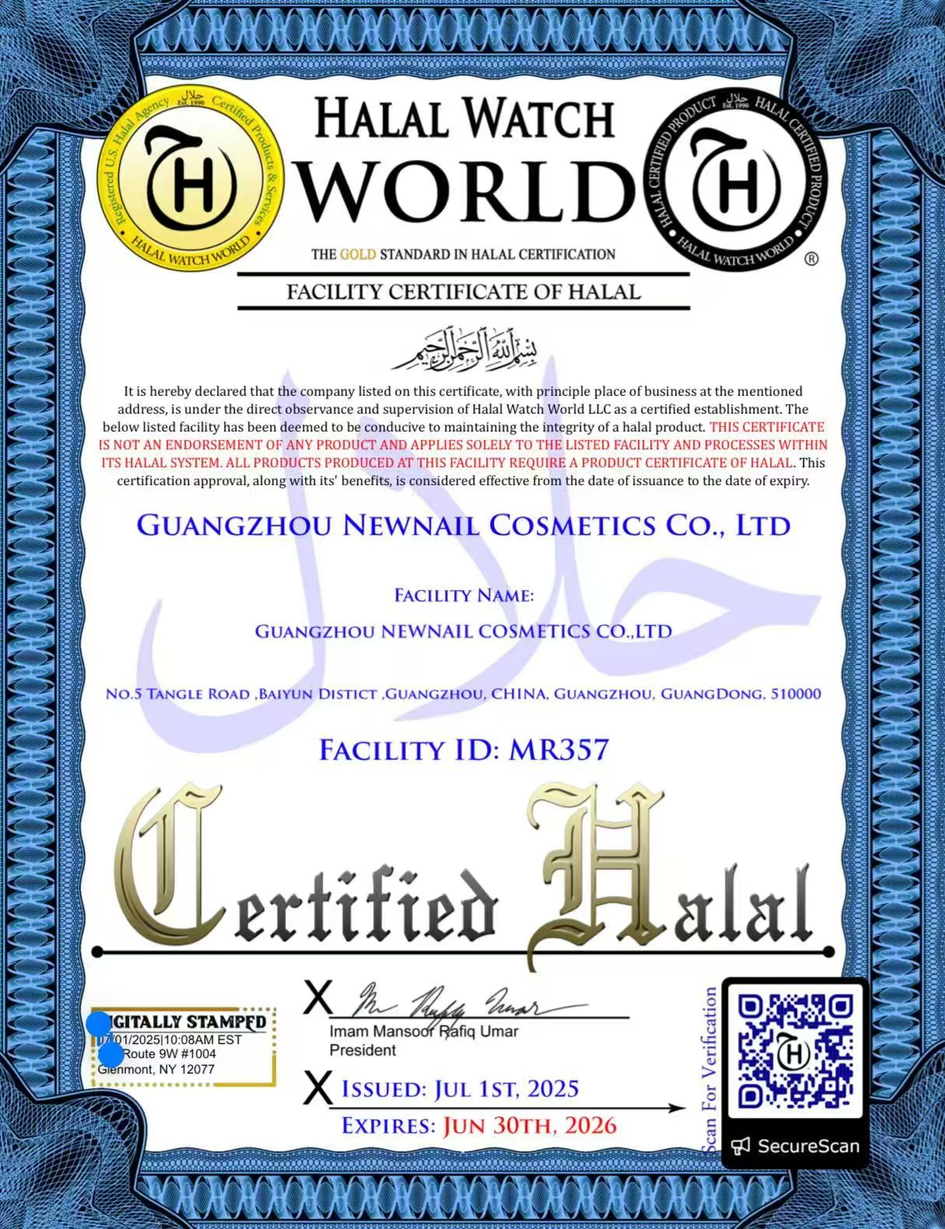
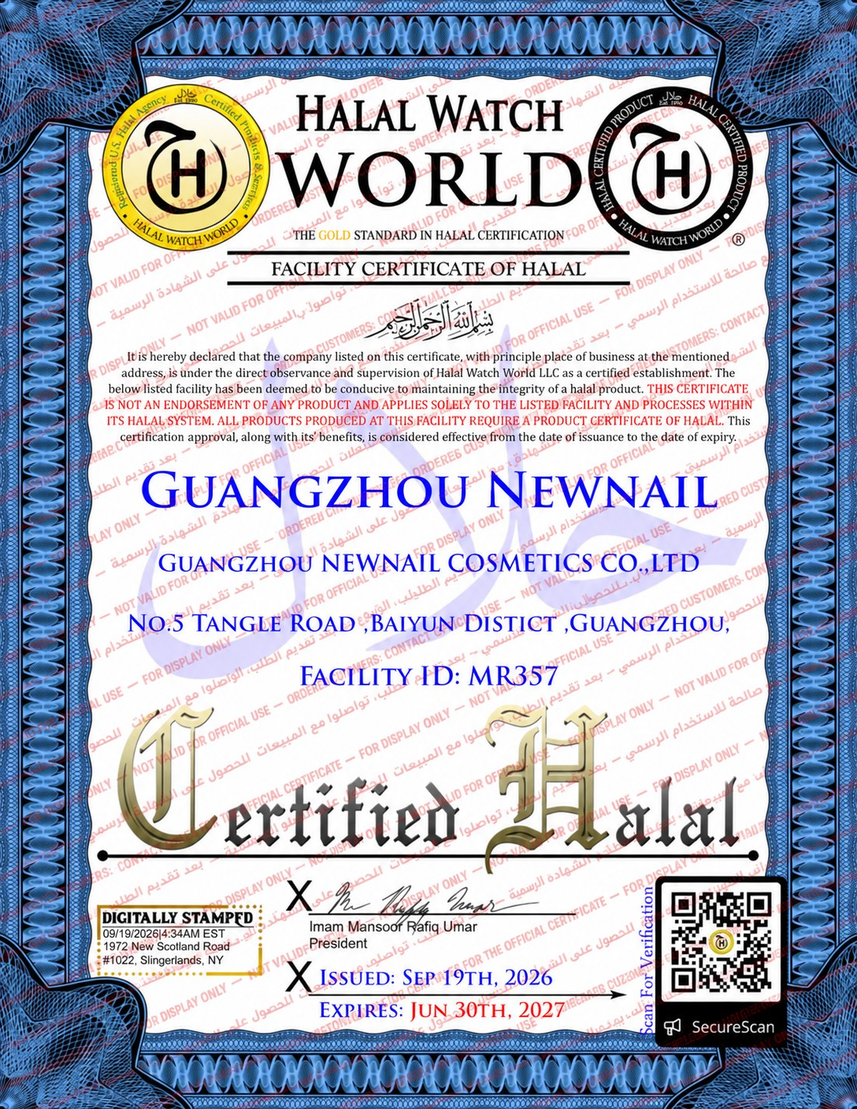
Update Halal certificate display and links

diff --git a/products/nail-polish-system/index.html b/products/nail-polish-system/index.html
@@ -1,1 +1,1 @@
-<!doctype html><html lang="en"><head><meta charset="utf-8"><meta name="viewport" content="width=device-width, initial-scale=1"><meta name="robots" content="index,follow,max-image-preview:large"><title>Halal Nail Polish | GZ New Nail</title><link rel="stylesheet" href="/assets/core-collections/style.css"><meta name="description" content="Develop your halal nail polish collection with GZ New Nail. Custom colors, bottles and packaging for brands, distributors and salon businesses."><link rel="canonical" href="https://gznewnail.com/products/nail-polish-system/"><script defer src="/assets/analytics.js?v=20260914"></script></head><body><header><div class="wrap nav"><a class="brand" href="/">GZ NEW NAIL<small>PRIVATE LABEL · OEM / ODM</small></a><nav class="links" aria-label="Product categories"><a aria-current="page" href="/products/nail-polish-system/">Halal Nail Polish</a><a href="/products/builder-extension-gel/">Builder Gel</a><a href="/products/acrylic-dipping-system/">Acrylic Powder</a></nav></div></header><main class="wrap"><div class="crumb"><a href="/#core-categories">Home / Collections</a> / Halal Nail Polish</div><section class="hero"><div><div class="eyebrow">YOUR COLORS. YOUR BRAND.</div><h1>Private Label<br>Halal Nail Polish</h1><p class="intro">Develop your halal nail polish collection with GZ New Nail. Custom colors, bottles and packaging for brands, distributors and salon businesses.</p><p class="badge">20 years of nail product export experience</p><div class="actions"><a class="button" href="#inquiry">Request Samples ↗</a><a class="button secondary" href="#customize">Explore Customization</a></div></div><figure class="visual" style="margin:0"><img src="/assets/core-collections/halal-nail-polish-product.png" alt="GZ New Nail Halal Nail Polish product reference"><figcaption class="caption"><span>PRODUCT REFERENCE</span><span>Final specifications by sample approval</span></figcaption></figure></section><section class="facts" aria-label="Order essentials"><div><strong>100 bottles</strong><span>Mixed colors · from 5 bottles per shade</span></div><div><strong>Free samples</strong><span>Customer pays shipping</span></div><div><strong>3–5 days</strong><span>Typical sample dispatch</span></div><div><strong>7–14 days</strong><span>Typical bulk lead time · order dependent</span></div></section><section class="section" id="customize"><div class="sectionhead"><div><div class="eyebrow">MADE FOR YOUR COLLECTION</div><h2>What can you customize?</h2></div><p>Define the details that matter to your customers. Confirm your final specification through sample approval.</p></div><table aria-label="Customization options"><tbody><tr><th scope="row">Formula</th><td>Discuss water-based options, drying performance, coverage, gloss and removal preferences. Confirm the final specification through sample approval.</td></tr><tr><th scope="row">Colors</th><td>Choose available shades or submit a physical color reference for development.</td></tr><tr><th scope="row">Bottles & brushes</th><td>Discuss bottle size, shape, cap and brush options suitable for your formula.</td></tr><tr><th scope="row">Logo</th><td>Customize labels and discuss printing options. Review certification-logo permissions before artwork approval.</td></tr><tr><th scope="row">Packaging</th><td>Individual boxes, coordinated color sets, shade cards and export cartons.</td></tr></tbody></table><p class="note">Custom development, packaging options and minimum quantities are confirmed for each project.</p></section><section class="section"><div class="eyebrow">EXPLORE THE COLLECTION</div><h2>Product details & specifications</h2><ul><li><a href="https://gznewnail.com/products/nail-polish-system/high-performance-regular-nail-lacquer.html">View Product Details</a></li><li><a href="https://gznewnail.com/products/nail-polish-system/quick-dry-vegan-water-based-nail-polish.html">View Product Details</a></li><li><a href="https://gznewnail.com/products/nail-polish-system/water-based-breathable-nail-polish.html">View Product Details</a></li></ul></section><section class="section reviewgrid"><div><div class="eyebrow">BEFORE YOU APPROVE</div><h2>Start with the right sample.</h2><ul class="checks"><li>Coverage & application layers</li><li>Drying, wear & removal</li><li>Bottle closure & brush performance</li></ul><a href="#inquiry">Discuss your sample requirements →</a></div><aside class="proof"><div class="eyebrow">BUYER NOTES</div><h3>Halal documentation, clearly explained</h3><p>Customers preparing to place an order can contact us to request our latest halal certificate and confirm its coverage for their selected products and destination market. Certification logos on private label packaging require review before artwork approval. For water-permeability requirements, request the relevant evidence and application conditions for the selected formula.</p></aside></section><section class="section"><div class="sectionhead"><div><div class="eyebrow">PLAN YOUR ORDER</div><h2>Your sourcing questions, answered.</h2></div></div><div class="faq"><details><summary>What can I customize?</summary><p>Discuss formula development, shades, containers, logo application and packaging. Options depend on the product and are confirmed through technical review, quotation and sample approval.</p></details><details open><summary>What is your minimum order quantity?</summary><p>For in-stock bottled products: 100 bottles in mixed colors, with as few as 5 bottles per shade. Custom formulas, colors and packaging may have different minimums. Send your specification for confirmation.</p></details><details><summary>Are samples free, and when can they ship?</summary><p>Samples are generally free; the customer pays shipping costs. Samples can generally be dispatched within 3–5 days, depending on availability and specification. Custom-developed samples may require a separately agreed schedule.</p></details><details><summary>What is the bulk order lead time?</summary><p>Bulk orders generally take 7–14 days. The actual schedule depends on quantity, product selection and packaging. We confirm the schedule for each order, including required sample and artwork approvals. Shipping transit time is additional.</p></details><details><summary>Which documents can you provide?</summary><p>We can provide product-specific SDS/MSDS and applicable SGS test reports, and discuss documentation support for EU CPNP notification and US FDA/MoCRA requirements. Customers preparing to order halal nail polish can request the latest halal certificate and review its scope. Availability and relevance are confirmed for the selected product, formula and market.</p></details><details><summary>How do I start my order?</summary><p>Send your destination country, sales channel, product, shades, quantity, container size and packaging requirements. We will recommend samples and confirm the quotation. Before production, agree the specification, approved samples, artwork and schedule. For EU orders, share your Responsible Person’s documentation and labeling requirements; for US orders, share your applicable labeling and MoCRA requirements.</p></details></div></section><section class="section inquiry" id="inquiry"><div><div class="eyebrow">LET’S BUILD YOUR COLLECTION</div><h2>Tell us what you have in mind.</h2><p>Share your destination country, shades, bottle size, quantity and certification requirements. We will help you select samples and review documentation before order approval.</p><ol class="steps"><li>Share your brief and target market.</li><li>Review samples, documents and quotation.</li><li>Approve specifications and packaging.</li></ol><p class="note">20 years of experience exporting nail products.</p></div><form id="quote"><div class="fields"><label>Name<input required name="name" autocomplete="name" placeholder="Your name"></label><label>Business email<input required type="email" name="email" autocomplete="email" placeholder="you@company.com"></label><label>Product category<input name="category" value="Halal Nail Polish" readonly></label><label>Destination country<input required name="country" placeholder="e.g. Germany or United States"></label><label class="wide">Quantity & packaging<input name="quantity" placeholder="Quantity, shades and bottle / jar size"></label><label class="wide">Project details<textarea name="details" placeholder="Formula, logo, sample and documentation requirements"></textarea></label><div class="wide"><button class="button" type="submit">Send Request by Email ↗</button><button class="button secondary" type="submit" value="whatsapp">Send via WhatsApp</button><p class="note">Your email app or WhatsApp opens with your request. You review and send it there.</p><p class="status" id="status" role="status"></p></div></div></form></section></main><footer class="wrap">GZ New Nail · OEM/ODM Nail Product Factory · Guangzhou, China</footer><script>document.getElementById('quote').addEventListener('submit',function(e){e.preventDefault();const f=new FormData(this);const text=Array.from(f.entries()).map(([k,v])=>k+': '+v).join('\n');const wa=e.submitter&&e.submitter.value==='whatsapp';const url=wa?'https://wa.me/8618686858175?text='+encodeURIComponent(text):'mailto:newnail001@gznewnail.com?subject='+encodeURIComponent(f.get('category')+' sample inquiry')+'&body='+encodeURIComponent(text);document.getElementById('status').textContent='Continue in your '+(wa?'WhatsApp':'email app')+' to review and send your request.';window.location.href=url;});</script></body></html>
+<!doctype html><html lang="en"><head><meta charset="utf-8"><meta name="viewport" content="width=device-width, initial-scale=1"><meta name="robots" content="index,follow,max-image-preview:large"><title>Halal Nail Polish | GZ New Nail</title><link rel="stylesheet" href="/assets/core-collections/style.css"><meta name="description" content="Develop your halal nail polish collection with GZ New Nail. Custom colors, bottles and packaging for brands, distributors and salon businesses."><link rel="canonical" href="https://gznewnail.com/products/nail-polish-system/"><script defer src="/assets/analytics.js?v=20260914"></script></head><body><header><div class="wrap nav"><a class="brand" href="/">GZ NEW NAIL<small>PRIVATE LABEL · OEM / ODM</small></a><nav class="links" aria-label="Product categories"><a aria-current="page" href="/products/nail-polish-system/">Halal Nail Polish</a><a href="/products/builder-extension-gel/">Builder Gel</a><a href="/products/acrylic-dipping-system/">Acrylic Powder</a></nav></div></header><main class="wrap"><div class="crumb"><a href="/#core-categories">Home / Collections</a> / Halal Nail Polish</div><section class="hero"><div><div class="eyebrow">YOUR COLORS. YOUR BRAND.</div><h1>Private Label<br>Halal Nail Polish</h1><p class="intro">Develop your halal nail polish collection with GZ New Nail. Custom colors, bottles and packaging for brands, distributors and salon businesses.</p><p class="badge">20 years of nail product export experience</p><div class="actions"><a class="button" href="#inquiry">Request Samples ↗</a><a class="button secondary" href="#customize">Explore Customization</a></div></div><figure class="visual" style="margin:0"><img src="/assets/core-collections/halal-nail-polish-product.png" alt="GZ New Nail Halal Nail Polish product reference"><figcaption class="caption"><span>PRODUCT REFERENCE</span><span>Final specifications by sample approval</span></figcaption></figure></section><section class="facts" aria-label="Order essentials"><div><strong>100 bottles</strong><span>Mixed colors · from 5 bottles per shade</span></div><div><strong>Free samples</strong><span>Customer pays shipping</span></div><div><strong>3–5 days</strong><span>Typical sample dispatch</span></div><div><strong>7–14 days</strong><span>Typical bulk lead time · order dependent</span></div></section><section class="section" id="customize"><div class="sectionhead"><div><div class="eyebrow">MADE FOR YOUR COLLECTION</div><h2>What can you customize?</h2></div><p>Define the details that matter to your customers. Confirm your final specification through sample approval.</p></div><table aria-label="Customization options"><tbody><tr><th scope="row">Formula</th><td>Discuss water-based options, drying performance, coverage, gloss and removal preferences. Confirm the final specification through sample approval.</td></tr><tr><th scope="row">Colors</th><td>Choose available shades or submit a physical color reference for development.</td></tr><tr><th scope="row">Bottles & brushes</th><td>Discuss bottle size, shape, cap and brush options suitable for your formula.</td></tr><tr><th scope="row">Logo</th><td>Customize labels and discuss printing options. Review certification-logo permissions before artwork approval.</td></tr><tr><th scope="row">Packaging</th><td>Individual boxes, coordinated color sets, shade cards and export cartons.</td></tr></tbody></table><p class="note">Custom development, packaging options and minimum quantities are confirmed for each project.</p></section><section class="section"><div class="eyebrow">EXPLORE THE COLLECTION</div><h2>Product details & specifications</h2><ul><li><a href="https://gznewnail.com/products/nail-polish-system/high-performance-regular-nail-lacquer.html">View Product Details</a></li><li><a href="https://gznewnail.com/products/nail-polish-system/quick-dry-vegan-water-based-nail-polish.html">View Product Details</a></li><li><a href="https://gznewnail.com/products/nail-polish-system/water-based-breathable-nail-polish.html">View Product Details</a></li></ul></section><section class="section reviewgrid"><div><div class="eyebrow">BEFORE YOU APPROVE</div><h2>Start with the right sample.</h2><ul class="checks"><li>Coverage & application layers</li><li>Drying, wear & removal</li><li>Bottle closure & brush performance</li></ul><a href="#inquiry">Discuss your sample requirements →</a></div><aside class="proof"><div class="eyebrow">BUYER NOTES</div><h3>Halal documentation, clearly explained</h3><p>Customers preparing to place an order can contact us to request our latest halal certificate and confirm its coverage for their selected products and destination market. Certification logos on private label packaging require review before artwork approval. For water-permeability requirements, request the relevant evidence and application conditions for the selected formula.</p><p><a href="../../guides/nail-polish-documents.html#halal">View the watermarked Halal facility certificate display copy →</a></p></aside></section><section class="section"><div class="sectionhead"><div><div class="eyebrow">PLAN YOUR ORDER</div><h2>Your sourcing questions, answered.</h2></div></div><div class="faq"><details><summary>What can I customize?</summary><p>Discuss formula development, shades, containers, logo application and packaging. Options depend on the product and are confirmed through technical review, quotation and sample approval.</p></details><details open><summary>What is your minimum order quantity?</summary><p>For in-stock bottled products: 100 bottles in mixed colors, with as few as 5 bottles per shade. Custom formulas, colors and packaging may have different minimums. Send your specification for confirmation.</p></details><details><summary>Are samples free, and when can they ship?</summary><p>Samples are generally free; the customer pays shipping costs. Samples can generally be dispatched within 3–5 days, depending on availability and specification. Custom-developed samples may require a separately agreed schedule.</p></details><details><summary>What is the bulk order lead time?</summary><p>Bulk orders generally take 7–14 days. The actual schedule depends on quantity, product selection and packaging. We confirm the schedule for each order, including required sample and artwork approvals. Shipping transit time is additional.</p></details><details><summary>Which documents can you provide?</summary><p>We can provide product-specific SDS/MSDS and applicable SGS test reports, and discuss documentation support for EU CPNP notification and US FDA/MoCRA requirements. Customers preparing to order halal nail polish can request the latest halal certificate and review its scope. Availability and relevance are confirmed for the selected product, formula and market.</p></details><details><summary>How do I start my order?</summary><p>Send your destination country, sales channel, product, shades, quantity, container size and packaging requirements. We will recommend samples and confirm the quotation. Before production, agree the specification, approved samples, artwork and schedule. For EU orders, share your Responsible Person’s documentation and labeling requirements; for US orders, share your applicable labeling and MoCRA requirements.</p></details></div></section><section class="section inquiry" id="inquiry"><div><div class="eyebrow">LET’S BUILD YOUR COLLECTION</div><h2>Tell us what you have in mind.</h2><p>Share your destination country, shades, bottle size, quantity and certification requirements. We will help you select samples and review documentation before order approval.</p><ol class="steps"><li>Share your brief and target market.</li><li>Review samples, documents and quotation.</li><li>Approve specifications and packaging.</li></ol><p class="note">20 years of experience exporting nail products.</p></div><form id="quote"><div class="fields"><label>Name<input required name="name" autocomplete="name" placeholder="Your name"></label><label>Business email<input required type="email" name="email" autocomplete="email" placeholder="you@company.com"></label><label>Product category<input name="category" value="Halal Nail Polish" readonly></label><label>Destination country<input required name="country" placeholder="e.g. Germany or United States"></label><label class="wide">Quantity & packaging<input name="quantity" placeholder="Quantity, shades and bottle / jar size"></label><label class="wide">Project details<textarea name="details" placeholder="Formula, logo, sample and documentation requirements"></textarea></label><div class="wide"><button class="button" type="submit">Send Request by Email ↗</button><button class="button secondary" type="submit" value="whatsapp">Send via WhatsApp</button><p class="note">Your email app or WhatsApp opens with your request. You review and send it there.</p><p class="status" id="status" role="status"></p></div></div></form></section></main><footer class="wrap">GZ New Nail · OEM/ODM Nail Product Factory · Guangzhou, China</footer><script>document.getElementById('quote').addEventListener('submit',function(e){e.preventDefault();const f=new FormData(this);const text=Array.from(f.entries()).map(([k,v])=>k+': '+v).join('\n');const wa=e.submitter&&e.submitter.value==='whatsapp';const url=wa?'https://wa.me/8618686858175?text='+encodeURIComponent(text):'mailto:newnail001@gznewnail.com?subject='+encodeURIComponent(f.get('category')+' sample inquiry')+'&body='+encodeURIComponent(text);document.getElementById('status').textContent='Continue in your '+(wa?'WhatsApp':'email app')+' to review and send your request.';window.location.href=url;});</script></body></html>

diff --git a/guides/nail-polish-documents.html b/guides/nail-polish-documents.html
@@ -1,3 +1,3 @@
 <!doctype html><html lang="en"><head>
 <script defer src="/assets/analytics.js?v=20260914"></script><meta charset="utf-8"><meta name="viewport" content="width=device-width,initial-scale=1"><title>Nail Polish Documents & Certificate Scope | GZ New Nail</title><meta name="description" content="View complete supplied Halal facility, water-based nail polish COA and third-party registration documents with their scope and dates."><link rel="canonical" href="https://gznewnail.com/guides/nail-polish-documents.html"><style>body{margin:0;color:#202020;background:#fff;font:17px/1.7 Arial,Helvetica,sans-serif}main,header,footer{max-width:1000px;margin:auto;padding:24px}header{border-bottom:1px solid #ddd}h1{font-size:clamp(30px,5vw,48px);line-height:1.2}h2{font-size:26px;line-height:1.3}nav{display:flex;gap:20px;flex-wrap:wrap}a{color:#84374c}.document{padding:30px 0;border-bottom:1px solid #ddd;scroll-margin-top:20px}.document p{max-width:850px}figure{margin:24px 0;border:1px solid #ddd;background:white}figure img{width:100%;height:auto;display:block;object-fit:contain}figcaption{padding:14px;font-size:14px;color:#555}.btn{display:inline-block;padding:10px 16px;background:#202020;color:white;text-decoration:none;margin-right:15px}.notice{background:#fff2d4;padding:16px}.document a:focus-visible{outline:3px solid #a8455d;outline-offset:4px}@media print{nav,.btn,.notice{display:none}figure{break-inside:avoid}figure img{max-height:900px;object-fit:contain}}
-</style></head><body><header><nav><a href="../">GZ New Nail</a><a href="./">Buyer Guides</a><a href="../#quote">Request documents for your order</a></nav><h1>Nail Polish Documents & Certificate Scope</h1><p>Review the full supplied documents alongside the product, batch, issuer and dates they identify.</p><nav><a href="#halal">Halal facility</a><a href="#coa">Batch COA</a><a href="#registration">Registration document</a></nav></header><main><section id="halal" class="document"><h2>Halal Facility Certificate — Historical Copy</h2><p>Issued by <strong>Halal Watch World</strong> for Guangzhou Newnail Cosmetics Co., Ltd., facility ID <strong>MR357</strong>. The displayed validity period is <strong>1 July 2025 to 30 June 2026</strong>.</p><p><strong>This copy is expired as of 10 September 2026.</strong> It covers the listed facility and processes, not an endorsement of any individual product. The certificate states that products require a separate product Halal certificate. Request the renewed facility certificate and the relevant product certificate for a current order.</p><p><a class="btn" href="../assets/documents/halal-facility-certificate.jpg" download>Download original file</a> <a href="../assets/documents/halal-facility-certificate.jpg" target="_blank" rel="noopener">Open full-size page</a></p><figure><a href="../assets/documents/halal-facility-certificate.jpg" target="_blank" rel="noopener"><img src="../assets/documents/halal-facility-certificate.jpg" width="1215" height="1581" alt="Complete supplied Halal Facility Certificate — Historical Copy" loading="lazy"></a><figcaption>Complete supplied document — page 1 of 1. No cropping or retouching.</figcaption></figure></section><section id="coa" class="document"><h2>Water-Based Nail Polish COA — WB817</h2><p>Manufacturer-issued certificate of analysis supplied for water-based nail polish: model <strong>WB817</strong>, lot <strong>2026082001</strong>, quantity <strong>5 kg</strong>, delivery date <strong>21 August 2026</strong>, stated shelf life <strong>1 year</strong>.</p><p>The report records appearance, smell, specific gravity (labelled “proportion”), pH, suspension and color-paste compatibility. It reports a value of 0.99 for specific gravity, pH 7, and an overall PASS conclusion. These are the manufacturer’s reported results for this identified batch, not independently repeated testing.</p><p>This COA is not a Halal certificate, a complete ingredient list or evidence for every nail polish or gel polish batch. Match your order to its product code, batch and agreed specification.</p><p><a class="btn" href="../assets/documents/water-based-nail-polish-coa.pdf" download>Download original file</a> <a href="../assets/documents/coa-1.png" target="_blank" rel="noopener">Open full-size page</a></p><figure><a href="../assets/documents/coa-1.png" target="_blank" rel="noopener"><img src="../assets/documents/coa-1.png" width="1273" height="1800" alt="Complete supplied Water-Based Nail Polish COA — WB817" loading="lazy"></a><figcaption>Complete supplied document — page 1 of 1. No cropping or retouching.</figcaption></figure></section><section id="registration" class="document"><h2>Third-Party Registration Document — NEWNAIL Nail Polish</h2><p>Supplied document titled “Certificate of Registration 2025–2026,” issued by <strong>Waiida Testing Tech Co., LTD</strong> for NEWNAIL nail polish. It lists facility FEI <strong>3030827169</strong>, product listing number <strong>53-858347-403886</strong> and an issue date printed as <strong>6/10/2025</strong>.</p><p><strong>This document was not issued by FDA and is not FDA product approval.</strong> Its own disclaimer states that Waiida is not affiliated with FDA. The identifiers and current submission status have not been independently verified here; request current submission records matching the product and responsible parties.</p><p>FDA states that cosmetic registration and listing do not indicate approval and that it does not issue certificates verifying cosmetic registration or listing. <a href="https://www.fda.gov/cosmetics/registration-listing-cosmetic-product-facilities-and-products">Read FDA’s registration and listing explanation</a>.</p><p><a class="btn" href="../assets/documents/nail-polish-registration-document.pdf" download>Download original file</a> <a href="../assets/documents/registration-1.png" target="_blank" rel="noopener">Open full-size page</a></p><figure><a href="../assets/documents/registration-1.png" target="_blank" rel="noopener"><img src="../assets/documents/registration-1.png" width="1272" height="1800" alt="Complete supplied Third-Party Registration Document — NEWNAIL Nail Polish" loading="lazy"></a><figcaption>Complete supplied document — page 1 of 1. No cropping or retouching.</figcaption></figure></section></main><footer>Guangzhou Newnail Cosmetics Co., Ltd. · Documents reviewed 10 September 2026</footer></body></html>
+</style></head><body><header><nav><a href="../">GZ New Nail</a><a href="./">Buyer Guides</a><a href="../#quote">Request documents for your order</a></nav><h1>Nail Polish Documents & Certificate Scope</h1><p>Review the full supplied documents alongside the product, batch, issuer and dates they identify.</p><nav><a href="#halal">Halal facility</a><a href="#coa">Batch COA</a><a href="#registration">Registration document</a></nav></header><main><section id="halal" class="document"><h2>Halal Facility Certificate — Display Copy</h2><p>Issued by <strong>Halal Watch World</strong> for Guangzhou Newnail Cosmetics Co., Ltd., facility ID <strong>MR357</strong>. The displayed certificate was issued on <strong>19 September 2026</strong> and expires on <strong>30 June 2027</strong>.</p><div class="notice"><p><strong>For display only. This copy is not valid for official use. Customers who have placed an order should contact our sales team to request the official certificate.</strong></p><p lang="ar" dir="rtl"><strong>للعرض فقط. هذه النسخة غير صالحة للاستخدام الرسمي. يُرجى من العملاء الذين قدموا طلبًا التواصل مع فريق المبيعات للحصول على الشهادة الرسمية.</strong></p></div><p>This is a facility certificate covering the named facility and stated processes; it is not an endorsement or product Halal certificate for every item. Confirm the applicable product certificate, formula and destination-market requirements with our sales team before relying on a claim.</p><p><a class="btn" href="../products/nail-polish-system/">Explore Water Base Halal Nail Polish</a> <a href="../contact-us/">Request the official certificate</a></p><figure><img src="../assets/documents/halal-facility-certificate.jpg" width="1103" height="1426" alt="Watermarked Halal facility certificate display copy, valid through June 30, 2027" loading="lazy"><figcaption>Watermarked display copy — page 1 of 1. Not valid for official use. Contact sales after placing an order to request the official certificate.</figcaption></figure></section><section id="coa" class="document"><h2>Water-Based Nail Polish COA — WB817</h2><p>Manufacturer-issued certificate of analysis supplied for water-based nail polish: model <strong>WB817</strong>, lot <strong>2026082001</strong>, quantity <strong>5 kg</strong>, delivery date <strong>21 August 2026</strong>, stated shelf life <strong>1 year</strong>.</p><p>The report records appearance, smell, specific gravity (labelled “proportion”), pH, suspension and color-paste compatibility. It reports a value of 0.99 for specific gravity, pH 7, and an overall PASS conclusion. These are the manufacturer’s reported results for this identified batch, not independently repeated testing.</p><p>This COA is not a Halal certificate, a complete ingredient list or evidence for every nail polish or gel polish batch. Match your order to its product code, batch and agreed specification.</p><p><a class="btn" href="../assets/documents/water-based-nail-polish-coa.pdf" download>Download original file</a> <a href="../assets/documents/coa-1.png" target="_blank" rel="noopener">Open full-size page</a></p><figure><a href="../assets/documents/coa-1.png" target="_blank" rel="noopener"><img src="../assets/documents/coa-1.png" width="1273" height="1800" alt="Complete supplied Water-Based Nail Polish COA — WB817" loading="lazy"></a><figcaption>Complete supplied document — page 1 of 1. No cropping or retouching.</figcaption></figure></section><section id="registration" class="document"><h2>Third-Party Registration Document — NEWNAIL Nail Polish</h2><p>Supplied document titled “Certificate of Registration 2025–2026,” issued by <strong>Waiida Testing Tech Co., LTD</strong> for NEWNAIL nail polish. It lists facility FEI <strong>3030827169</strong>, product listing number <strong>53-858347-403886</strong> and an issue date printed as <strong>6/10/2025</strong>.</p><p><strong>This document was not issued by FDA and is not FDA product approval.</strong> Its own disclaimer states that Waiida is not affiliated with FDA. The identifiers and current submission status have not been independently verified here; request current submission records matching the product and responsible parties.</p><p>FDA states that cosmetic registration and listing do not indicate approval and that it does not issue certificates verifying cosmetic registration or listing. <a href="https://www.fda.gov/cosmetics/registration-listing-cosmetic-product-facilities-and-products">Read FDA’s registration and listing explanation</a>.</p><p><a class="btn" href="../assets/documents/nail-polish-registration-document.pdf" download>Download original file</a> <a href="../assets/documents/registration-1.png" target="_blank" rel="noopener">Open full-size page</a></p><figure><a href="../assets/documents/registration-1.png" target="_blank" rel="noopener"><img src="../assets/documents/registration-1.png" width="1272" height="1800" alt="Complete supplied Third-Party Registration Document — NEWNAIL Nail Polish" loading="lazy"></a><figcaption>Complete supplied document — page 1 of 1. No cropping or retouching.</figcaption></figure></section></main><footer>Guangzhou Newnail Cosmetics Co., Ltd. · Documents updated 23 September 2026</footer></body></html>

diff --git a/certifications/index.html b/certifications/index.html
@@ -1,2 +1,2 @@
 <!doctype html>
-<html lang="en"><head><meta charset="utf-8"><meta name="viewport" content="width=device-width, initial-scale=1"><title>Certifications &amp; Document Scope | GZ New Nail</title><meta name="description" content="Review certification status, document scope and product-specific evidence for GZ New Nail OEM and ODM nail product projects."><meta name="robots" content="index, follow"><link rel="canonical" href="https://gznewnail.com/certifications/"><meta property="og:type" content="article"><meta property="og:title" content="Certifications &amp; Document Scope | GZ New Nail"><meta property="og:description" content="Certification status and document scope for buyer review."><meta property="og:url" content="https://gznewnail.com/certifications/"><style>body{margin:0;color:#26211d;background:#fbfaf7;font:17px/1.7 Arial,Helvetica,sans-serif}main,header,footer{max-width:980px;margin:auto;padding:28px 22px}header{border-bottom:1px solid #e5ddd3}h1{font-size:clamp(32px,6vw,58px);line-height:1.1}h2{margin-top:38px}a{color:#7c3147}.status{background:#fff2d4;border:1px solid #e1c77b;padding:20px;margin:20px 0}.card{background:#fff;border:1px solid #e5ddd3;padding:20px;margin:18px 0}</style><script type="application/ld+json">{"@context":"https://schema.org","@type":"Article","headline":"Certifications and Document Scope","url":"https://gznewnail.com/certifications/","publisher":{"@type":"Organization","name":"GZ New Nail","url":"https://gznewnail.com/"}}</script></head><body><header><nav><a href="../">GZ New Nail</a> · <a href="../products/">Products</a> · <a href="../guides/nail-polish-documents.html">Product Documents</a> · <a href="../contact-us/">Contact</a></nav><h1>Certifications &amp; Document Scope</h1><p>Review the status and limits of facility, product and market documents before approving a project.</p></header><main><section class="status"><h2>Halal facility certificate status</h2><p><strong>Historical copy: expired.</strong> The displayed facility certificate shows a validity period ending 30 June 2026. Renewal status is under review. Request the current facility certificate and the relevant product certificate before relying on a halal claim for a new order.</p></section><section class="card"><h2>What each document can establish</h2><ul><li>A facility certificate relates to the named facility and its stated scope; it does not automatically certify every product.</li><li>A product certificate or test report must be matched to the exact formula, product identity and relevant market.</li><li>An SDS, COA or supplier declaration has a defined purpose and does not by itself establish blanket market authorization.</li><li>Water permeability, wudu suitability, halal status and destination-market compliance are separate questions requiring product-specific review.</li></ul></section><section class="card"><h2>Documents available for buyer review</h2><p>See the <a href="../guides/nail-polish-documents.html">complete supplied documents and certificate scope</a>. Document availability, validity, formula identity and destination requirements must be confirmed for the selected order.</p><p>For EU or US projects, review the <a href="../guides/hema-free-tpo-free-verification-guide.html">HEMA-Free / TPO-Free Verification Guide</a> and discuss the applicable document plan with the product team.</p></section><section><h2>Request current documents</h2><p>Send the product, formula or SKU, target country, quantity and required claim. We will confirm which current documents can be provided for that project.</p><a href="../contact-us/">Contact the product team</a></section></main><footer><a href="../privacy-policy/">Privacy Policy</a> · <a href="../quality-control/">Quality Control</a></footer></body></html>
+<html lang="en"><head><meta charset="utf-8"><meta name="viewport" content="width=device-width, initial-scale=1"><title>Certifications &amp; Document Scope | GZ New Nail</title><meta name="description" content="Review certification status, document scope and product-specific evidence for GZ New Nail OEM and ODM nail product projects."><meta name="robots" content="index, follow"><link rel="canonical" href="https://gznewnail.com/certifications/"><meta property="og:type" content="article"><meta property="og:title" content="Certifications &amp; Document Scope | GZ New Nail"><meta property="og:description" content="Certification status and document scope for buyer review."><meta property="og:url" content="https://gznewnail.com/certifications/"><style>body{margin:0;color:#26211d;background:#fbfaf7;font:17px/1.7 Arial,Helvetica,sans-serif}main,header,footer{max-width:980px;margin:auto;padding:28px 22px}header{border-bottom:1px solid #e5ddd3}h1{font-size:clamp(32px,6vw,58px);line-height:1.1}h2{margin-top:38px}a{color:#7c3147}.status{background:#fff2d4;border:1px solid #e1c77b;padding:20px;margin:20px 0}.card{background:#fff;border:1px solid #e5ddd3;padding:20px;margin:18px 0}.actions{display:flex;gap:16px;flex-wrap:wrap;margin-top:18px}.actions a{display:inline-block;padding:10px 16px;background:#7c3147;color:#fff;text-decoration:none}</style><script type="application/ld+json">{"@context":"https://schema.org","@type":"Article","headline":"Certifications and Document Scope","url":"https://gznewnail.com/certifications/","publisher":{"@type":"Organization","name":"GZ New Nail","url":"https://gznewnail.com/"}}</script></head><body><header><nav><a href="../">GZ New Nail</a> · <a href="../products/">Products</a> · <a href="../guides/nail-polish-documents.html">Product Documents</a> · <a href="../contact-us/">Contact</a></nav><h1>Certifications &amp; Document Scope</h1><p>Review the status and limits of facility, product and market documents before approving a project.</p></header><main><section class="status"><h2>Halal facility certificate status</h2><p><strong>Current facility certificate display copy.</strong> The displayed certificate was issued on 19 September 2026 and expires on 30 June 2027. The online image is watermarked for display only and is not valid for official use. Customers who have placed an order should contact our sales team for the official certificate.</p><p lang="ar" dir="rtl"><strong>للعرض فقط. هذه النسخة غير صالحة للاستخدام الرسمي. يُرجى من العملاء الذين قدموا طلبًا التواصل مع فريق المبيعات للحصول على الشهادة الرسمية.</strong></p><div class="actions"><a href="../guides/nail-polish-documents.html#halal">View display certificate</a><a href="../products/nail-polish-system/">Water Base Halal Nail Polish</a></div></section><section class="card"><h2>What each document can establish</h2><ul><li>A facility certificate relates to the named facility and its stated scope; it does not automatically certify every product.</li><li>A product certificate or test report must be matched to the exact formula, product identity and relevant market.</li><li>An SDS, COA or supplier declaration has a defined purpose and does not by itself establish blanket market authorization.</li><li>Water permeability, wudu suitability, halal status and destination-market compliance are separate questions requiring product-specific review.</li></ul></section><section class="card"><h2>Documents available for buyer review</h2><p>See the <a href="../guides/nail-polish-documents.html">complete supplied documents and certificate scope</a>. Document availability, validity, formula identity and destination requirements must be confirmed for the selected order.</p><p>For EU or US projects, review the <a href="../guides/hema-free-tpo-free-verification-guide.html">HEMA-Free / TPO-Free Verification Guide</a> and discuss the applicable document plan with the product team.</p></section><section><h2>Request current documents</h2><p>Send the product, formula or SKU, target country, quantity and required claim. We will confirm which current documents can be provided for that project.</p><a href="../contact-us/">Contact the product team</a></section></main><footer><a href="../privacy-policy/">Privacy Policy</a> · <a href="../quality-control/">Quality Control</a></footer></body></html>

diff --git a/index.html b/index.html
@@ -6396,7 +6396,7 @@ body.luxury-editorial{font-family:"Helvetica Neue",Arial,Helvetica,sans-serif;fo
 
 
 
-  <section id="nn-campaign" aria-label="NEWNAIL water based nail polish campaign"><div id="nn-slides" aria-live="off"><figure class="nn-slide" ><img src="/assets/campaign-water-based/orange.webp" alt="NEWNAIL orange gift boxes and water based nail polish concept" width="2172" height="724"><figcaption class="nn-caption"><strong>Factory Direct · OEM / ODM Customization</strong><span>Water-permeability test videos available on request.<br>Discuss your formula, bottle, logo and packaging with NEWNAIL.</span></figcaption></figure><figure class="nn-slide" hidden><img src="/assets/campaign-water-based/natural.webp" alt="NEWNAIL natural kraft cylinder packaging concept" width="2172" height="724"><figcaption class="nn-caption"><strong>Factory Direct · OEM / ODM Customization</strong><span>Water-permeability test videos available on request.<br>Discuss your formula, bottle, logo and packaging with NEWNAIL.</span></figcaption></figure><figure class="nn-slide" hidden><img src="/assets/campaign-water-based/prayer.webp" alt="NEWNAIL campaign concept in a quiet prayer setting" width="2172" height="724"><figcaption class="nn-caption"><strong>Factory Direct · OEM / ODM Customization</strong><span>Water-permeability test videos available on request.<br>Discuss your formula, bottle, logo and packaging with NEWNAIL.</span></figcaption></figure><figure class="nn-slide" hidden><img src="/assets/campaign-water-based/services.webp" alt="NEWNAIL one-stop OEM ODM brand design, custom colors, formula development, packaging and shipping" width="2172" height="724"><figcaption class="nn-caption"><strong>Your Brand. Our Expertise.</strong><span>Brand design · Custom colours · Formula development · Packaging &amp; shipping<br>Water-permeability test videos available on request.</span></figcaption></figure></div><div class="nn-controls"><button id="nn-prev" aria-label="Previous slide">←</button><button data-nn="0" aria-current="true" aria-label="Show orange gift packaging">1</button><button data-nn="1" aria-label="Show natural packaging">2</button><button data-nn="2" aria-label="Show prayer campaign">3</button><button data-nn="3" aria-label="Show one-stop OEM ODM services">4</button><button id="nn-next" aria-label="Next slide">→</button><button id="nn-pause">Pause</button></div><div class="nn-actions"><a href="https://gznewnail.com/#catalog" id="nn-water">Explore Water Based System →</a><a href="https://gznewnail.com/#quote" id="nn-inquiry">Request OEM / ODM Quote →</a></div><div class="nn-cert"><a href="/assets/documents/halal-facility-certificate.jpg" id="nn-cert-link" target="_blank"><img src="/assets/documents/halal-facility-certificate.jpg" alt="Full historical facility certificate, expired June 30, 2026"></a><div><h3>Facility Certification &amp; Documentation</h3><p>Before confirming your order, contact us to request the latest available halal certification documents and verify their validity and scope for your selected products and destination market. You do not need to place an order before requesting this review.</p><p><strong>Halal facility certification renewal under review.</strong></p><small>The displayed facility certificate expired on June 30, 2026. Renewal status is based on the manufacturer's update. The renewed certificate will be available for review before order confirmation once it has been issued. This facility document does not establish product water permeability or suitability for wudu.</small></div></div><dialog id="nn-full-cert"><button type="button" onclick="document.getElementById('nn-full-cert').close()">Close ×</button><img src="/assets/documents/halal-facility-certificate.jpg" alt="Complete unaltered facility certificate"></dialog></section>
+  <section id="nn-campaign" aria-label="NEWNAIL water based nail polish campaign"><div id="nn-slides" aria-live="off"><figure class="nn-slide" ><img src="/assets/campaign-water-based/orange.webp" alt="NEWNAIL orange gift boxes and water based nail polish concept" width="2172" height="724"><figcaption class="nn-caption"><strong>Factory Direct · OEM / ODM Customization</strong><span>Water-permeability test videos available on request.<br>Discuss your formula, bottle, logo and packaging with NEWNAIL.</span></figcaption></figure><figure class="nn-slide" hidden><img src="/assets/campaign-water-based/natural.webp" alt="NEWNAIL natural kraft cylinder packaging concept" width="2172" height="724"><figcaption class="nn-caption"><strong>Factory Direct · OEM / ODM Customization</strong><span>Water-permeability test videos available on request.<br>Discuss your formula, bottle, logo and packaging with NEWNAIL.</span></figcaption></figure><figure class="nn-slide" hidden><img src="/assets/campaign-water-based/prayer.webp" alt="NEWNAIL campaign concept in a quiet prayer setting" width="2172" height="724"><figcaption class="nn-caption"><strong>Factory Direct · OEM / ODM Customization</strong><span>Water-permeability test videos available on request.<br>Discuss your formula, bottle, logo and packaging with NEWNAIL.</span></figcaption></figure><figure class="nn-slide" hidden><img src="/assets/campaign-water-based/services.webp" alt="NEWNAIL one-stop OEM ODM brand design, custom colors, formula development, packaging and shipping" width="2172" height="724"><figcaption class="nn-caption"><strong>Your Brand. Our Expertise.</strong><span>Brand design · Custom colours · Formula development · Packaging &amp; shipping<br>Water-permeability test videos available on request.</span></figcaption></figure></div><div class="nn-controls"><button id="nn-prev" aria-label="Previous slide">←</button><button data-nn="0" aria-current="true" aria-label="Show orange gift packaging">1</button><button data-nn="1" aria-label="Show natural packaging">2</button><button data-nn="2" aria-label="Show prayer campaign">3</button><button data-nn="3" aria-label="Show one-stop OEM ODM services">4</button><button id="nn-next" aria-label="Next slide">→</button><button id="nn-pause">Pause</button></div><div class="nn-actions"><a href="https://gznewnail.com/#catalog" id="nn-water">Explore Water Based System →</a><a href="https://gznewnail.com/#quote" id="nn-inquiry">Request OEM / ODM Quote →</a></div><div class="nn-cert"><a href="/assets/documents/halal-facility-certificate.jpg" id="nn-cert-link"><img src="/assets/documents/halal-facility-certificate.jpg" alt="Watermarked Halal facility certificate display copy, valid through June 30, 2027"></a><div><h3>Facility Certification &amp; Documentation</h3><p>The displayed facility certificate was issued on September 19, 2026 and expires on June 30, 2027. It covers the named facility and stated processes; product-specific scope must be confirmed for each order.</p><p><strong>Display copy only — not valid for official use.</strong> Customers who have placed an order should contact our sales team to request the official certificate.</p><small>هذه النسخة للعرض فقط وغير صالحة للاستخدام الرسمي. بعد تقديم الطلب، يُرجى التواصل مع فريق المبيعات للحصول على الشهادة الرسمية.</small><p><a href="/guides/nail-polish-documents.html#halal">View certificate details</a> · <a href="/products/nail-polish-system/">Explore Water Base Halal Nail Polish</a></p></div></div><dialog id="nn-full-cert"><button type="button" onclick="document.getElementById('nn-full-cert').close()">Close ×</button><img src="/assets/documents/halal-facility-certificate.jpg" alt="Watermarked Halal facility certificate display copy"></dialog></section>
 
 <section id="factory-video" class="video-section">
 
@@ -12877,6 +12877,3 @@ document.addEventListener('click',event=>{if(!menu.contains(event.target))menu.o
 
 
 </html>
-
-
-
